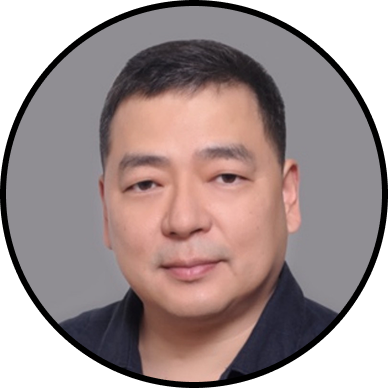
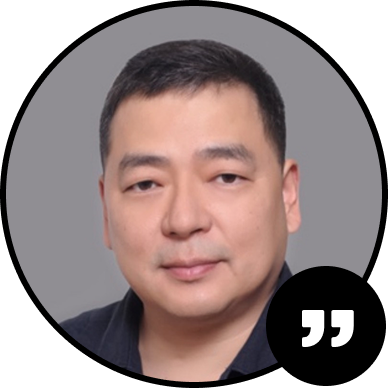
Use updated lead portrait groups

Changed region(s): [[0.6804, 0.6804, 1.0, 1.0]]

diff --git a/styles.css b/styles.css
@@ -58,21 +58,18 @@ button {
 
 .avatar-replacement {
   position: absolute;
-  top: 82.229077%;
-  width: 6.597222%;
-  height: 2.548283%;
+  top: 82.188334%;
+  width: 6.807292%;
+  height: 2.629426%;
   display: block;
-  border-radius: 50%;
-  object-fit: cover;
-  box-shadow: 0 0 0 1px #000;
 }
 
 .avatar-replacement--ji {
-  left: 24.270833%;
+  left: 24.165365%;
 }
 
 .avatar-replacement--nick {
-  left: 69.131944%;
+  left: 69.026476%;
 }
 
 .selectable-text {

diff --git a/index.html b/index.html
@@ -35,8 +35,8 @@
             class="avatar-replacement avatar-replacement--nick"
             src="./assets/prof-nick-bryan-kinns.png"
             alt=""
-            width="384"
-            height="384"
+            width="388"
+            height="388"
           />
         </div>
 